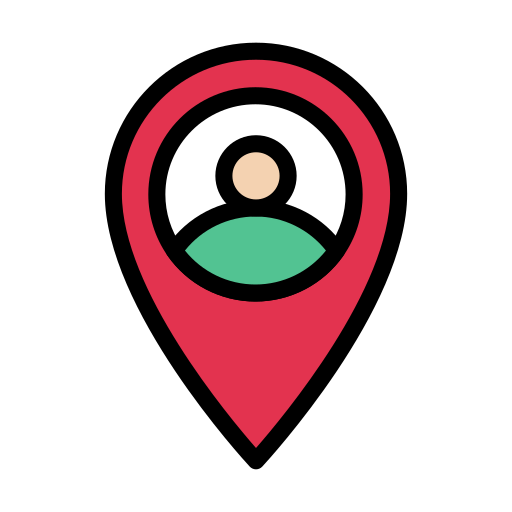
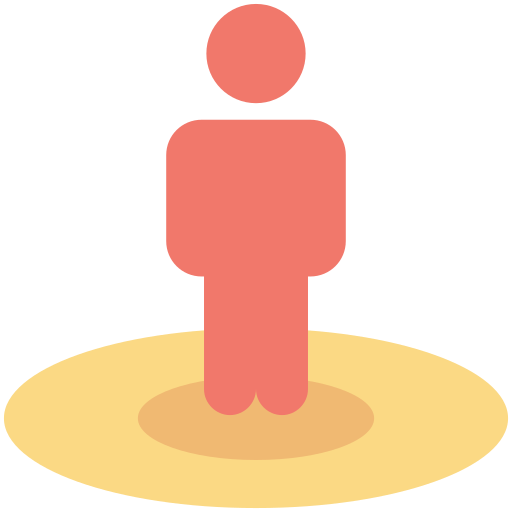
Mejora user marker + arreglos modo informacion

diff --git a/frontend/src/components/Map.jsx b/frontend/src/components/Map.jsx
@@ -54,9 +54,10 @@ import userMarker from '../../assets/userMarker.png'
 
 const marcadorUser = new L.Icon({
   iconUrl: userMarker,
-  iconSize: [35, 35],
+  iconSize: [55, 55],
   iconAnchor: [17, 35],
-  popupAnchor: [0, -35]
+  popupAnchor: [0, -35],
+  className: "user-marker-icon"
 })
 
 // Para puntos creados desde el panel admin
@@ -375,7 +376,6 @@ function Mapa({
   // "ruta" | "info"
   const [modoPopup, setModoPopup] = useState("ruta")
 
-  const [puntoActivo, setPuntoActivo] = useState(null)
 
 
 
@@ -421,7 +421,6 @@ function Mapa({
   // ---------------------------------------------------
 
   const abrirInformacion = (punto) => {
-    setPuntoActivo(punto)
     setModoPopup("info")
 
     setTimeout(() => {
@@ -1283,17 +1282,16 @@ function Mapa({
                       rutaSeleccionada={rutaSeleccionada}
                       setRutaSeleccionada={setRutaSeleccionada}
                       setModoPopup={setModoPopup}
-                      setPuntoActivo={setPuntoActivo}
                       abrirInformacion={abrirInformacion}
                     />
                   )}
 
-                  {modoPopup === "info" && puntoActivo && (
+                  {modoPopup === "info" && (
                     <PopupInformacion
-                      punto={puntoActivo}
+                      punto={punto}
                       ruta={{
-                        id: puntoActivo.ruta_id,
-                        nombre: puntoActivo.ruta_nombre
+                        id: punto.ruta_id,
+                        nombre: punto.ruta_nombre
                       }}
                       modoHistoriador={modoHistoriador}
                       setModoHistoriador={setModoHistoriador}
@@ -1351,16 +1349,15 @@ function Mapa({
                     rutaSeleccionada={rutaSeleccionada}
                     setRutaSeleccionada={setRutaSeleccionada}
                     setModoPopup={setModoPopup}
-                    setPuntoActivo={setPuntoActivo}
                     abrirInformacion={abrirInformacion}
                   />
                 )}
-                {modoPopup === "info" && puntoActivo && (
+                {modoPopup === "info" && punto && (
                   <PopupInformacion
-                    punto={puntoActivo}
+                    punto={punto}
                     ruta={{
-                      id: puntoActivo.ruta_id,
-                      nombre: puntoActivo.ruta_nombre
+                      id: punto.ruta_id,
+                      nombre: punto.ruta_nombre
                     }}
                     modoHistoriador={modoHistoriador}
                     setModoHistoriador={setModoHistoriador}
@@ -1418,17 +1415,16 @@ function Mapa({
                   rutaSeleccionada={rutaSeleccionada}
                   setRutaSeleccionada={setRutaSeleccionada}
                   setModoPopup={setModoPopup}
-                  setPuntoActivo={setPuntoActivo}
                   abrirInformacion={abrirInformacion}
                 />
               )}
 
-              {modoPopup === "info" && puntoActivo && (
+              {modoPopup === "info" && punto && (
                 <PopupInformacion
-                  punto={puntoActivo}
+                  punto={punto}
                   ruta={{
-                    id: puntoActivo.ruta_id,
-                    nombre: puntoActivo.ruta_nombre
+                    id: punto.ruta_id,
+                    nombre: punto.ruta_nombre
                   }}
                   modoHistoriador={modoHistoriador}
                   setModoHistoriador={setModoHistoriador}
@@ -1489,17 +1485,16 @@ function Mapa({
                   rutaSeleccionada={rutaSeleccionada}
                   setRutaSeleccionada={setRutaSeleccionada}
                   setModoPopup={setModoPopup}
-                  setPuntoActivo={setPuntoActivo}
                   abrirInformacion={abrirInformacion}
                 />
               )}
 
-              {modoPopup === "info" && puntoActivo && (
+              {modoPopup === "info" && punto && (
                 <PopupInformacion
-                  punto={puntoActivo}
+                  punto={punto}
                   ruta={{
-                    id: puntoActivo.ruta_id,
-                    nombre: puntoActivo.ruta_nombre
+                    id: punto.ruta_id,
+                    nombre: punto.ruta_nombre
                   }}
                   modoHistoriador={modoHistoriador}
                   setModoHistoriador={setModoHistoriador}

diff --git a/frontend/src/styles/mapa.css b/frontend/src/styles/mapa.css
@@ -297,3 +297,26 @@
   }
 
 }
+
+/* ------------------------------------- */
+/* USER MARKER // USERMARKER
+/* ------------------------------------- */
+
+
+.user-marker-icon {
+  position: relative;
+
+  filter: drop-shadow(0 0 6px rgba(200, 0, 100, 0.9))
+          drop-shadow(0 4px 6px rgba(0, 0, 0, 0.9));
+
+  transform: scale(1);
+  transition: transform 0.2s ease;
+
+  z-index: 1000;
+}
+
+/* hover */
+.user-marker-icon:hover {
+  transform: scale(1.1);
+}
+

diff --git a/frontend/src/components/PopupInformacion.jsx b/frontend/src/components/PopupInformacion.jsx
@@ -32,9 +32,16 @@ function PopupInformacion({
       )}
 
       {/* Descripcion historica (controlada por historiador) */}
-      {modoHistoriador && punto.descripcion && (
+      {punto.descripcion && (
         <p className="popup-descripcion">
           {punto.descripcion}
+        </p>
+      )}
+
+      {/* Descripcion extendida  */}
+      {modoHistoriador && punto.descripcionextensa && (
+        <p className="popup-descripcion">
+          {punto.descripcionextensa}
         </p>
       )}
 
@@ -42,15 +49,20 @@ function PopupInformacion({
       <div className="popup-info-extra">
 
         <p>
-          <strong>Importe:</strong>{" "}
+          <strong>Cuesta:</strong>{" "}
           {punto.pago
             ? `${punto.importe || "Consultar precio"} €`
             : "Entrada gratuita"}
         </p>
 
         <p>
-          <strong>Horarios:</strong>{" "}
+          <strong>Abre durante:</strong>{" "}
           {punto.horario || "Consultar en la página web"}
+        </p>
+
+        <p>
+          <strong>Informacion sobre accesibilidad:</strong>{" "}
+          {punto.accesible || "Consultar en la página web"}
         </p>
 
       </div>
@@ -63,7 +75,7 @@ function PopupInformacion({
             target="_blank"
             rel="noopener noreferrer"
           >
-            Mas informacion
+            Visitar sitio web
           </a>
         </p>
       )}

diff --git a/frontend/src/components/Popup.jsx b/frontend/src/components/Popup.jsx
@@ -4,7 +4,6 @@ function PopupRuta({
   rutaSeleccionada,
   setRutaSeleccionada,
   setModoPopup,
-  setPuntoActivo,
   abrirInformacion
 }) {
 